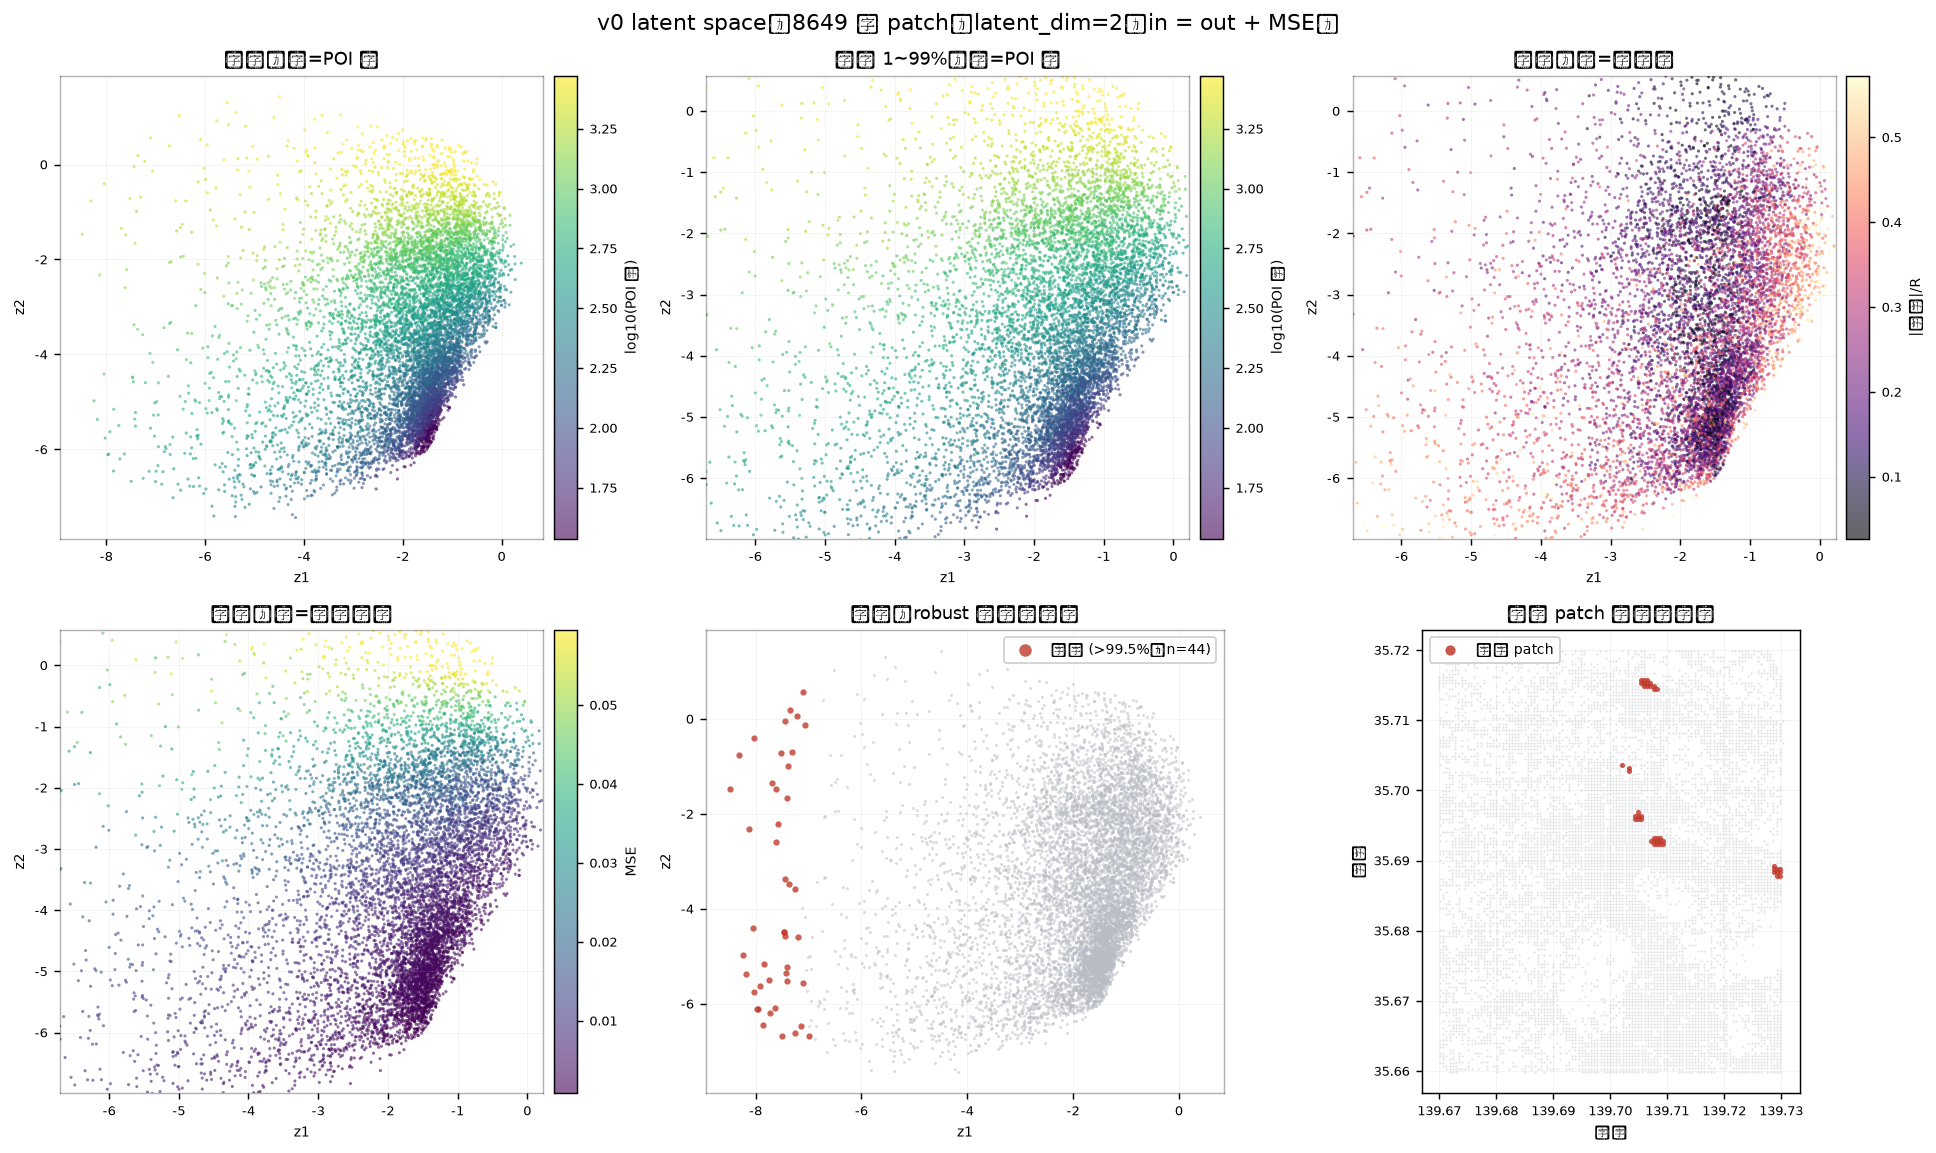
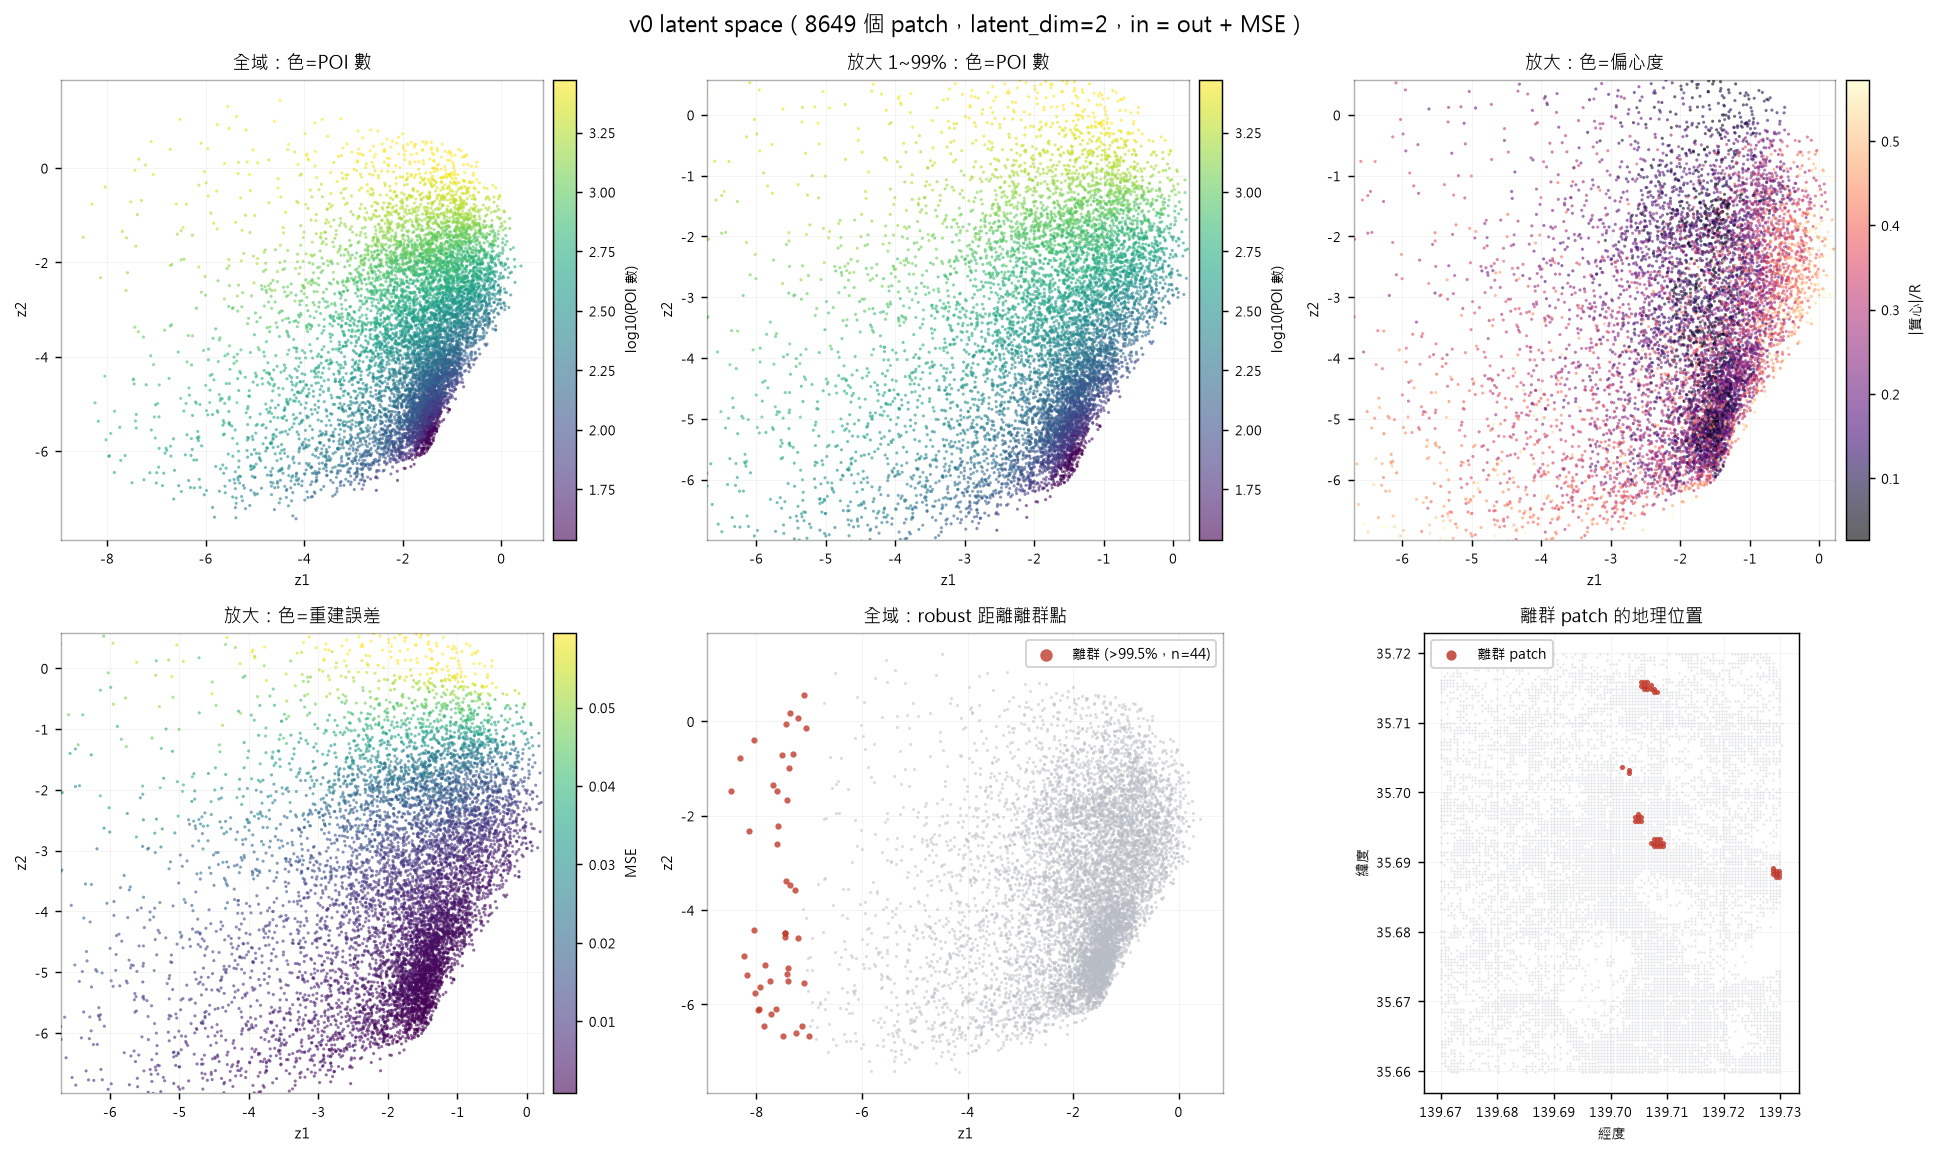
update modelOverture scripts

diff --git a/modelOverture/v0/analyze/outlier_compare.py b/modelOverture/v0/analyze/outlier_compare.py
@@ -1,0 +1,170 @@
+"""比較 latent space 上的極端離群 patch 與中心（基準）patch。
+
+取 robust 距離最大的 100 個當離群、最小的 100 個當基準，
+用 --n 指定要看第幾名的離群 patch（1 = 最極端）。
+
+畫四張圖：
+  上排：離群 / 基準 patch 的 POI 原始分布地圖（半徑 300m 的圓）
+  下排左：單一 patch 的類別組成比較
+  下排右：離群 patch vs 基準前 20 個平均的類別組成比較
+"""
+
+import argparse
+
+import numpy as np
+import matplotlib as mpl
+import matplotlib.pyplot as plt
+
+PATCHES = "model/patches.npz"
+LATENTS = "model/v0/result/latents.npz"
+OUT = "model/v0/result/outlier_compare.png"
+
+TOP_K = 100        # 各取幾個離群 / 基準 patch
+BASE_AVG = 20      # 右下角基準平均用幾個 patch
+RADIUS = 300.0
+
+CATEGORIES = [
+    "Dining and Drinking",
+    "Retail",
+    "Nightlife Spot",
+    "Community and Government",
+    "Travel and Transportation",
+    "Business and Professional Services",
+    "Landmarks and Outdoors",
+    "Arts and Entertainment",
+    "Health and Medicine",
+    "Sports and Recreation",
+]
+CAT_ZH = [
+    "餐飲", "零售", "夜生活", "社區/政府", "交通",
+    "商業服務", "地標/戶外", "藝文娛樂", "醫療", "運動休閒",
+]
+CAT_COLORS = [
+    "#e6194b", "#3cb44b", "#911eb4", "#4363d8", "#f58231",
+    "#46f0f0", "#008080", "#f032e6", "#9a6324", "#808000",
+]
+
+OUT_COLOR = "#c0392b"
+BASE_COLOR = "#2c7fb8"
+
+mpl.rcParams["font.family"] = ["Heiti TC"]
+mpl.rcParams["axes.unicode_minus"] = False
+mpl.rcParams["figure.dpi"] = 130
+
+
+def robust_distance(z):
+    """對每個軸用 中位數 / MAD 標準化後取歐氏距離，不被離群值本身帶偏。"""
+    med = np.median(z, axis=0)
+    mad = np.median(np.abs(z - med), axis=0) * 1.4826
+    return np.linalg.norm((z - med) / mad, axis=1)
+
+
+def patch_points(p, i):
+    """回傳第 i 個 patch 的 (dx, dy, cat)。"""
+    s, e = p["offsets"][i], p["offsets"][i + 1]
+    return p["dx"][s:e], p["dy"][s:e], p["cat"][s:e]
+
+
+def composition(p, i):
+    """回傳第 i 個 patch 的 10 類佔比(%)。"""
+    _, _, cat = patch_points(p, i)
+    c = np.bincount(cat.astype(np.int64), minlength=len(CATEGORIES))
+    return c / c.sum() * 100
+
+
+def draw_map(ax, p, i, title, edge):
+    dx, dy, cat = patch_points(p, i)
+    ax.add_patch(plt.Circle((0, 0), RADIUS, fill=False, lw=1.6,
+                            color=edge, alpha=0.8))
+    for k in range(len(CATEGORIES)):
+        m = cat == k
+        if m.any():
+            ax.scatter(dx[m], dy[m], s=16, c=CAT_COLORS[k], linewidths=0,
+                       alpha=0.85, label=CAT_ZH[k])
+    ax.set_xlim(-RADIUS * 1.1, RADIUS * 1.1)
+    ax.set_ylim(-RADIUS * 1.1, RADIUS * 1.1)
+    ax.set_aspect("equal")
+    ax.set_title(title, fontsize=10, color=edge)
+    ax.set_xlabel("東西向位移 (m)", fontsize=8)
+    ax.set_ylabel("南北向位移 (m)", fontsize=8)
+    ax.tick_params(labelsize=7)
+    ax.grid(alpha=0.15, linewidth=0.5)
+    for s in ax.spines.values():
+        s.set_alpha(0.3)
+
+
+def draw_bars(ax, left, right, left_label, right_label, title, right_err=None):
+    y = np.arange(len(CATEGORIES))
+    h = 0.38
+    ax.barh(y - h / 2, left, h, color=OUT_COLOR, alpha=0.85, label=left_label)
+    ax.barh(y + h / 2, right, h, color=BASE_COLOR, alpha=0.85,
+            label=right_label,
+            xerr=right_err, error_kw=dict(ecolor="#555", elinewidth=0.8,
+                                          capsize=2))
+    ax.set_yticks(y)
+    ax.set_yticklabels(CAT_ZH, fontsize=8)
+    ax.invert_yaxis()
+    ax.set_xlabel("佔該 patch POI 的比例 (%)", fontsize=8)
+    ax.set_title(title, fontsize=10)
+    ax.tick_params(labelsize=7)
+    ax.legend(fontsize=8, framealpha=0.9)
+    ax.grid(axis="x", alpha=0.15, linewidth=0.5)
+    for s in ax.spines.values():
+        s.set_alpha(0.3)
+
+
+def main():
+    ap = argparse.ArgumentParser()
+    ap.add_argument("--n", type=int, default=1,
+                    help=f"要看第幾名的離群 patch（1~{TOP_K}，1 = 最極端）")
+    n = ap.parse_args().n
+    assert 1 <= n <= TOP_K, f"--n 要在 1~{TOP_K}"
+
+    d = np.load(LATENTS)
+    p = np.load(PATCHES)
+    z, n_poi, lat, lon = d["z"], d["n_poi"], d["lat"], d["lon"]
+
+    dist = robust_distance(z)
+    order = np.argsort(dist)
+    base_idx = order[:TOP_K]          # 最靠 latent 中心的 100 個
+    out_idx = order[::-1][:TOP_K]     # 最極端的 100 個
+
+    oi = int(out_idx[n - 1])
+    bi = int(base_idx[n - 1])
+
+    print(f"離群 #{n}: patch {oi}  robust 距離 {dist[oi]:.2f}  "
+          f"POI {n_poi[oi]}  ({lat[oi]:.5f}, {lon[oi]:.5f})")
+    print(f"基準 #{n}: patch {bi}  robust 距離 {dist[bi]:.2f}  "
+          f"POI {n_poi[bi]}  ({lat[bi]:.5f}, {lon[bi]:.5f})")
+    print(f"離群 100 個 POI 數中位數 {np.median(n_poi[out_idx]):.0f}，"
+          f"基準 100 個 {np.median(n_poi[base_idx]):.0f}，"
+          f"全體 {np.median(n_poi):.0f}")
+
+    comp_o = composition(p, oi)
+    comp_b = composition(p, bi)
+    avg = np.array([composition(p, int(i)) for i in base_idx[:BASE_AVG]])
+
+    fig, ((a, b), (c, e)) = plt.subplots(2, 2, figsize=(13, 12))
+
+    draw_map(a, p, oi, f"離群 #{n}（patch {oi}，POI {n_poi[oi]}）",
+             OUT_COLOR)
+    draw_map(b, p, bi, f"基準 #{n}（patch {bi}，POI {n_poi[bi]}）",
+             BASE_COLOR)
+    a.legend(fontsize=6.5, markerscale=1.2, framealpha=0.9,
+             loc="upper left", bbox_to_anchor=(1.01, 1.0))
+
+    draw_bars(c, comp_o, comp_b, f"離群 #{n}", f"基準 #{n}",
+              "單一 patch 類別組成比較")
+    draw_bars(e, comp_o, avg.mean(0), f"離群 #{n}",
+              f"基準前 {BASE_AVG} 個平均",
+              f"離群 vs 基準 {BASE_AVG} 個平均的類別組成",
+              right_err=avg.std(0))
+
+    fig.suptitle(f"v0 latent space：離群 #{n} vs 基準 patch"
+                 f"（robust 距離 top/bottom {TOP_K}）", fontsize=12)
+    fig.tight_layout()
+    fig.savefig(OUT, bbox_inches="tight")
+    print(f"\n已存 {OUT}")
+
+
+main()

diff --git a/modelOverture/v0/analyze/rebuild_test.py b/modelOverture/v0/analyze/rebuild_test.py
@@ -1,0 +1,146 @@
+"""挑一個 patch 丟進訓練好的 v0 AE，比較「進去」與「出來」的 POI 分布。
+
+用 --n 指定 patch 編號（0 ~ 23699）。
+左圖 = AE 前的真實 POI 點圖（半徑 300m 的圓，顏色 = 類別）。
+右圖 = AE 後的重建：重建出來的是每格每類的強度（連續值），
+不是離散的點，所以把 (格子, 類別) 依強度排序，取前 N 名畫成點
+（N = 這個 patch 真實的 POI 數），點大小/深淺 ∝ 強度，
+等於「AE 認為最可能有 POI 的 N 個位置」。
+另外印出這個 patch 的 MSE loss、它在全體 patch 裡的百分位，以及逐類別的 MSE。
+"""
+
+import argparse
+import os
+import sys
+
+import numpy as np
+import torch
+import matplotlib as mpl
+import matplotlib.pyplot as plt
+
+sys.path.insert(0, os.path.dirname(os.path.dirname(os.path.abspath(__file__))))
+from ae import GRID, CELL, RADIUS, ConvAE, Patches, mse_loss  # noqa: E402
+
+PATCHES = "modelOverture/patches.npz"
+LATENTS = "modelOverture/result/latents.npz"
+CKPT = "modelOverture/result/ae.pt"
+OUT = "modelOverture/result/rebuild_test.png"
+
+LATENT_DIM = 2
+DOT = 18          # 點的基本大小
+
+CAT_ZH = [
+    "餐飲", "零售", "夜生活", "政府", "交通",
+    "商業服務", "地標", "藝文娛樂", "醫療", "運動休閒",
+]
+CAT_COLORS = [
+    "#e6194b", "#3cb44b", "#911eb4", "#4363d8", "#f58231",
+    "#46f0f0", "#008080", "#f032e6", "#9a6324", "#808000",
+]
+IN_COLOR = "#2c7fb8"
+OUT_COLOR = "#c0392b"
+
+mpl.rcParams["font.family"] = ["Heiti TC"]
+mpl.rcParams["axes.unicode_minus"] = False
+mpl.rcParams["figure.dpi"] = 130
+
+
+def style(ax, title, edge):
+    ax.add_patch(plt.Circle((0, 0), RADIUS, fill=False, lw=1.6,
+                            color=edge, alpha=0.8))
+    ax.set_xlim(-RADIUS * 1.15, RADIUS * 1.15)
+    ax.set_ylim(-RADIUS * 1.15, RADIUS * 1.15)
+    ax.set_aspect("equal")
+    ax.set_title(title, fontsize=10, color=edge)
+    ax.set_xlabel("東西向位移 (m)", fontsize=8)
+    ax.set_ylabel("南北向位移 (m)", fontsize=8)
+    ax.tick_params(labelsize=7)
+    ax.grid(alpha=0.15, linewidth=0.5)
+    for s in ax.spines.values():
+        s.set_alpha(0.3)
+
+
+def draw_true(ax, p, i, title):
+    """AE 前：真實 POI 一點一個。"""
+    s, e = p["offsets"][i], p["offsets"][i + 1]
+    dx, dy, cat = p["dx"][s:e], p["dy"][s:e], p["cat"][s:e].astype(np.int64)
+    for k in range(len(CAT_ZH)):
+        m = cat == k
+        if m.any():
+            ax.scatter(dx[m], dy[m], s=DOT, c=CAT_COLORS[k], linewidths=0,
+                       alpha=0.85, label=CAT_ZH[k])
+    style(ax, title, IN_COLOR)
+
+
+def draw_recon(ax, recon, n_top, title):
+    """AE 後：取強度前 n_top 名的 (格子, 類別) 當成重建出來的點。"""
+    inten = torch.expm1(recon.clamp(min=0))[0].numpy()   # (10,40,40) 還原成 count
+    k, iy, ix = np.unravel_index(
+        np.argsort(inten, axis=None)[::-1][:n_top], inten.shape)
+    v = inten[k, iy, ix]
+    rel = v / v.max()
+
+    # 格子中心換算回公尺
+    x = (ix + 0.5 - GRID / 2) * CELL
+    y = (iy + 0.5 - GRID / 2) * CELL
+    for c in range(len(CAT_ZH)):
+        m = k == c
+        if m.any():
+            ax.scatter(x[m], y[m], s=DOT * (0.3 + 1.4 * rel[m]),
+                       c=CAT_COLORS[c], linewidths=0,
+                       alpha=0.25 + 0.6 * rel[m], label=CAT_ZH[c])
+    style(ax, title, OUT_COLOR)
+    return v
+
+
+def main():
+    ap = argparse.ArgumentParser()
+    ap.add_argument("--n", type=int, default=0, help="patch 編號（0 起算）")
+    n = ap.parse_args().n
+
+    data = Patches(PATCHES)
+    assert 0 <= n < data.n, f"--n 要在 0~{data.n - 1}"
+
+    model = ConvAE(LATENT_DIM)
+    model.load_state_dict(torch.load(CKPT, map_location="cpu"))
+    model.eval()
+
+    # 跟 train.py 的推論一致：固定朝向、不旋轉
+    x = data.render(torch.tensor([n]), rotate=False)
+    with torch.no_grad():
+        z, recon = model(x)
+    loss = mse_loss(recon, x).item()
+
+    err = np.load(LATENTS)["err"]
+    pct = (err < loss).mean() * 100
+    n_poi = int(data.n_poi[n])
+
+    print(f"patch {n}：POI {n_poi}  ({data.lat[n]:.5f}, {data.lon[n]:.5f})")
+    print(f"latent z = ({z[0, 0]:+.3f}, {z[0, 1]:+.3f})")
+    print(f"MSE loss = {loss:.6f}  "
+          f"（全體中位數 {np.median(err):.6f}，此 patch 排在第 {pct:.1f} 百分位）")
+
+    per_cat = ((recon - x) ** 2).mean(dim=(2, 3))[0]
+    print("\n逐類別 MSE：")
+    for c, name in enumerate(CAT_ZH):
+        print(f"  {name:<6}{per_cat[c]:.6f}   "
+              f"輸入總量 {x[0, c].sum():7.2f} -> 重建 {recon[0, c].sum():7.2f}")
+
+    fig, (a, b) = plt.subplots(1, 2, figsize=(13, 6.5))
+    draw_true(a, np.load(PATCHES), n, f"AE 前（真實 POI，共 {n_poi} 個）")
+    v = draw_recon(b, recon, n_poi,
+                   f"AE 後（重建強度前 {n_poi} 名，MSE {loss:.6f}）")
+    a.legend(fontsize=6.5, markerscale=1.4, framealpha=0.9,
+             loc="upper left", bbox_to_anchor=(1.01, 1.0))
+
+    print(f"\n重建強度前 {n_poi} 名：最大 {v.max():.3f}、最小 {v.min():.3f} "
+          f"（真實每格至少是 1 個 POI）")
+
+    fig.suptitle(f"v0 重建測試：patch {n}（latent_dim={LATENT_DIM}）",
+                 fontsize=12)
+    fig.tight_layout()
+    fig.savefig(OUT, bbox_inches="tight")
+    print(f"已存 {OUT}")
+
+
+main()
